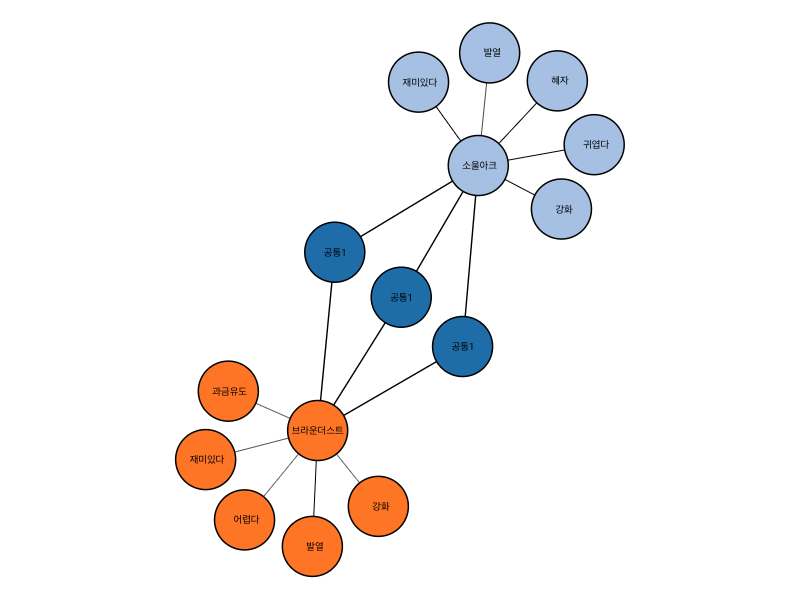
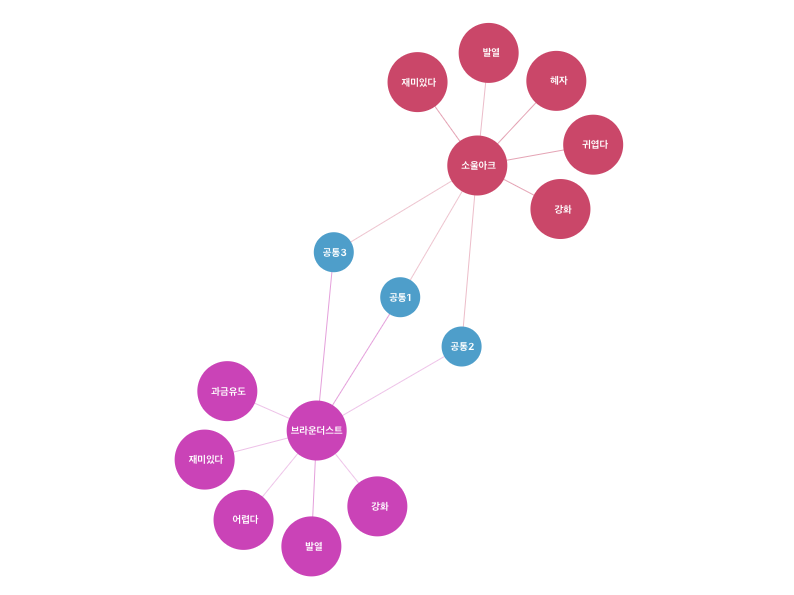
Beautifully decorated nodes

Changed region(s): [[0.2116, 0.0303, 0.7859, 0.9697], [0.6348, 0.1818, 0.665, 0.2121], [0.4836, 0.6364, 0.5139, 0.6667]]

diff --git a/src/miserables.js b/src/miserables.js
@@ -1,41 +1,42 @@
 export default {
   nodes: [
-    { id: 'common01', name: '공통1', group: 1 },
-    { id: 'common02', name: '공통1', group: 1 },
-    { id: 'common03', name: '공통1', group: 1 },
+    { id: 'common01', name: '공통1', size: '20', group: 0 },
+    { id: 'common02', name: '공통2', size: '20', group: 0 },
+    { id: 'common03', name: '공통3', size: '20', group: 0 },
 
-    { id: 'A', name: '소울아크', group: 2 },
-    { id: 'A-1', name: '강화', group: 2 },
-    { id: 'A-2', name: '발열', group: 2 },
-    { id: 'A-3', name: '귀엽다', group: 2 },
-    { id: 'A-4', name: '재미있다', group: 2 },
-    { id: 'A-5', name: '혜자', group: 2 },
+    { id: 'A', name: '소울아크', size: '30', group: 1 },
+    { id: 'A-1', name: '강화', size: '30', group: 1 },
+    { id: 'A-2', name: '발열', size: '30', group: 1 },
+    { id: 'A-3', name: '귀엽다', size: '30', group: 1 },
+    { id: 'A-4', name: '재미있다', size: '30', group: 1 },
+    { id: 'A-5', name: '혜자', size: '30', group: 1 },
 
-    { id: 'B', name: '브라운더스트', group: 3 },
-    { id: 'B-1', name: '재미있다', group: 3 },
-    { id: 'B-2', name: '강화', group: 3 },
-    { id: 'B-3', name: '어렵다', group: 3 },
-    { id: 'B-4', name: '과금유도', group: 3 },
-    { id: 'B-5', name: '발열', group: 3 }
+    { id: 'B', name: '브라운더스트', size: '30', group: 2 },
+    { id: 'B-1', name: '재미있다', size: '30', group: 2 },
+    { id: 'B-2', name: '강화', size: '30', group: 2 },
+    { id: 'B-3', name: '어렵다', size: '30', group: 2 },
+    { id: 'B-4', name: '과금유도', size: '30', group: 2 },
+    { id: 'B-5', name: '발열', size: '30', group: 2 }
   ],
   links: [
-    { source: 'A', target: 'common01', value: 2 },
-    { source: 'A', target: 'common02', value: 2 },
-    { source: 'A', target: 'common03', value: 2 },
-    { source: 'B', target: 'common01', value: 2 },
-    { source: 'B', target: 'common02', value: 2 },
-    { source: 'B', target: 'common03', value: 2 },
+    { source: 'A', target: 'common01', value: 1, group: 1 },
+    { source: 'A', target: 'common02', value: 1, group: 1 },
+    { source: 'A', target: 'common03', value: 1, group: 1 },
+    { source: 'B', target: 'common01', value: 1, group: 2 },
+    { source: 'B', target: 'common02', value: 1, group: 2 },
+    { source: 'B', target: 'common03', value: 1, group: 2 },
 
-    { source: 'A-1', target: 'A', value: 1 },
-    { source: 'A-2', target: 'A', value: 1 },
-    { source: 'A-3', target: 'A', value: 1 },
-    { source: 'A-4', target: 'A', value: 1 },
-    { source: 'A-5', target: 'A', value: 1 },
+    { source: 'A-1', target: 'A', value: 1, group: 1 },
+    { source: 'A-2', target: 'A', value: 1, group: 1 },
+    { source: 'A-3', target: 'A', value: 1, group: 1 },
+    { source: 'A-4', target: 'A', value: 1, group: 1 },
+    { source: 'A-5', target: 'A', value: 1, group: 1 },
 
-    { source: 'B-1', target: 'B', value: 1 },
-    { source: 'B-2', target: 'B', value: 1 },
-    { source: 'B-3', target: 'B', value: 1 },
-    { source: 'B-4', target: 'B', value: 1 },
-    { source: 'B-5', target: 'B', value: 1 }
-  ]
+    { source: 'B-1', target: 'B', value: 1, group: 2 },
+    { source: 'B-2', target: 'B', value: 1, group: 2 },
+    { source: 'B-3', target: 'B', value: 1, group: 2 },
+    { source: 'B-4', target: 'B', value: 1, group: 2 },
+    { source: 'B-5', target: 'B', value: 1, group: 2 }
+  ],
+  colors: ['#57A8D3', '#D14F75', '#D14AC3', '#CE7654', '#904CD3', '#5458D3']
 };

diff --git a/src/components/Graph.js b/src/components/Graph.js
@@ -13,18 +13,18 @@ const Wrap = styled.div`
   }
 
   .node {
-    stroke: #000;
+    stroke: none;
     stroke-width: 1.5px;
   }
 
   .link {
-    stroke: #000;
-    stroke-opacity: 1;
+    stroke-opacity: 0.5;
   }
 
   .label {
     font-size: 10px;
-    fill: #000;
+    fill: #ffffff;
+    font-weight: bold;
   }
 `;
 
@@ -108,8 +108,12 @@ export default class App extends Component {
     return (
       <Wrap>
         <svg className='container' width={width} height={height}>
-          <Links links={graph.links} />
-          <Nodes nodes={graph.nodes} simulation={this.simulation} />
+          <Links links={graph.links} colors={graph.colors} />
+          <Nodes
+            nodes={graph.nodes}
+            colors={graph.colors}
+            simulation={this.simulation}
+          />
           <Labels nodes={graph.nodes} />
         </svg>
       </Wrap>

diff --git a/src/components/Nodes.js b/src/components/Nodes.js
@@ -10,7 +10,7 @@ class Node extends Component {
     return (
       <circle
         className='node'
-        r={30}
+        r={this.props.node.size}
         fill={this.props.color}
         ref={ref => (this.ref = ref)}
       >
@@ -54,10 +54,9 @@ export default class Nodes extends Component {
   }
 
   render() {
-    const color = d3.scaleOrdinal(d3.schemeCategory20);
     const nodes = this.props.nodes.map((node, index) => {
       return (
-        <Node key={index} node={node} color={color(node.group.toString())} />
+        <Node key={index} node={node} color={this.props.colors[node.group]} />
       );
     });
 

diff --git a/src/components/Links.js b/src/components/Links.js
@@ -11,6 +11,7 @@ class Link extends Component {
       <line
         className='link'
         ref={ref => (this.ref = ref)}
+        stroke={this.props.color}
         strokeWidth={Math.sqrt(this.props.link.value)}
       />
     );
@@ -20,7 +21,9 @@ class Link extends Component {
 export default class Links extends Component {
   render() {
     const links = this.props.links.map((link, index) => {
-      return <Link key={index} link={link} />;
+      return (
+        <Link key={index} link={link} color={this.props.colors[link.group]} />
+      );
     });
 
     return <g className='links'>{links}</g>;
